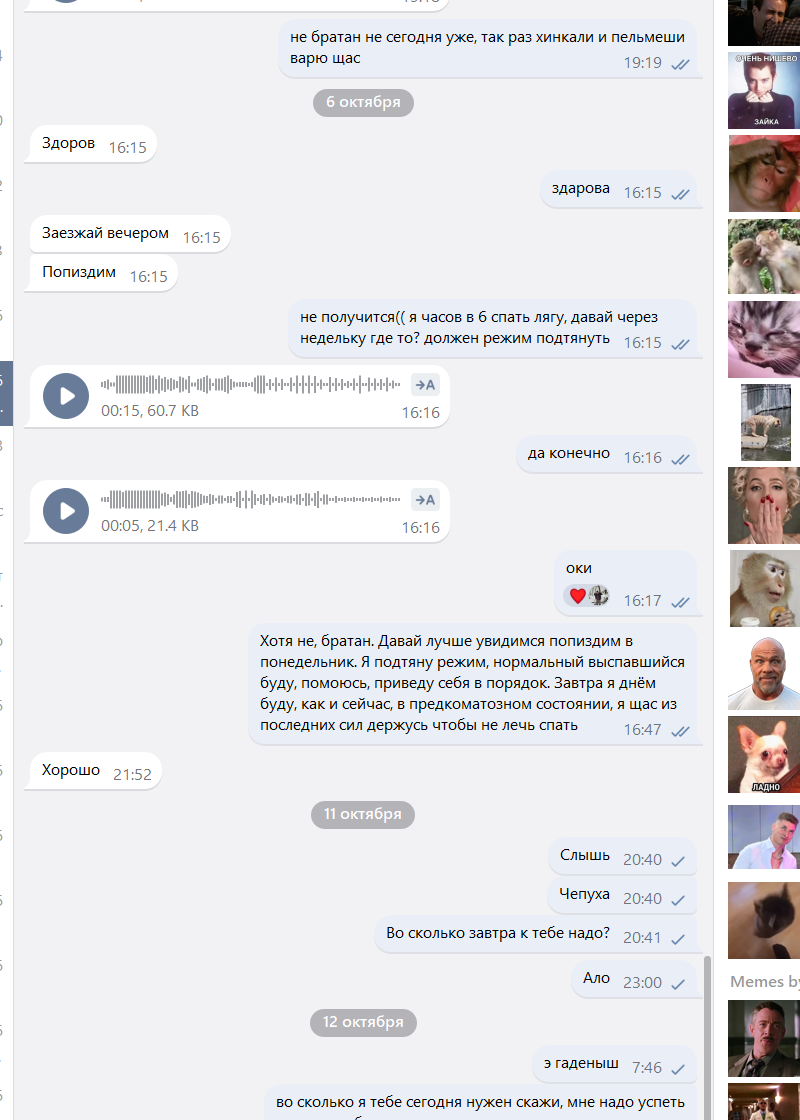
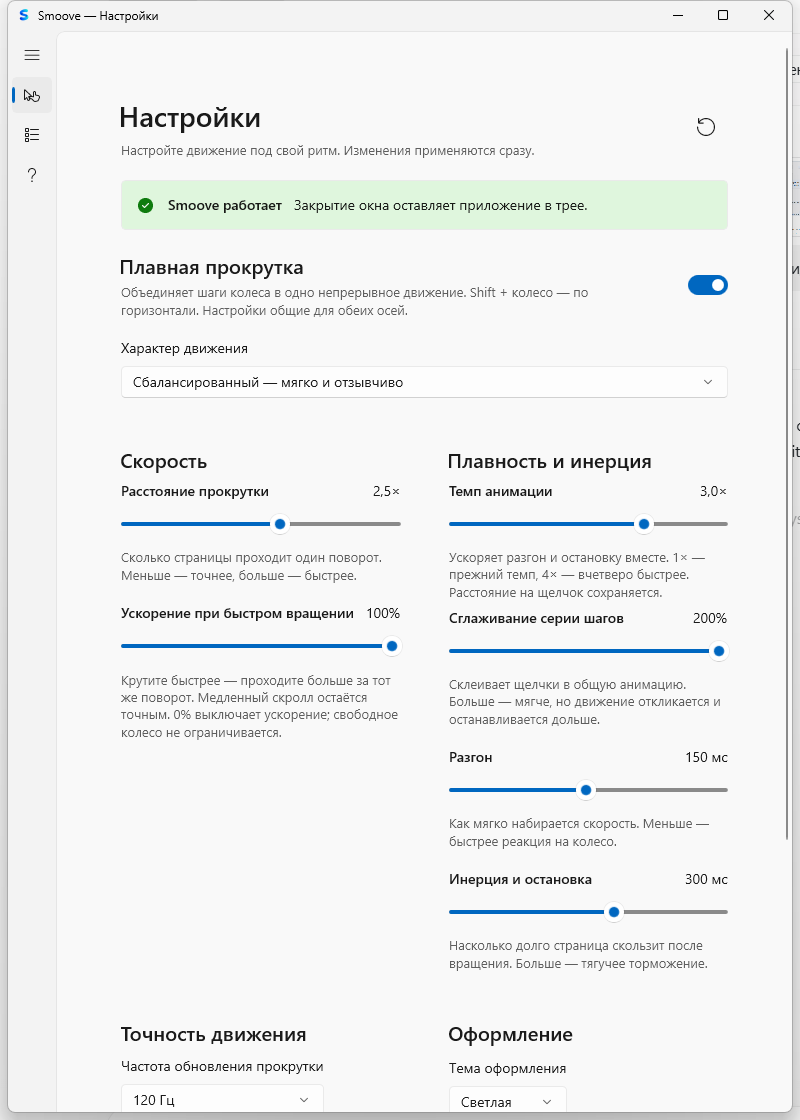
docs: fix settings screenshot and embedded demo

diff --git a/README.md b/README.md
@@ -10,8 +10,7 @@ Smoove объединяет щелчки колеса в непрерывное 
 
 ## Видео демонстрация
 
-<video controls width="800">
-  <source src="media/Smoove-demo.mp4" type="video/mp4">
+<video controls="controls" width="800" src="https://github.com/starkovskypro-code/Smoove-2.0/releases/download/v1.0.0/Smoove-demo.mp4">
   Ваш браузер не поддерживает встроенное видео.
 </video>
 
